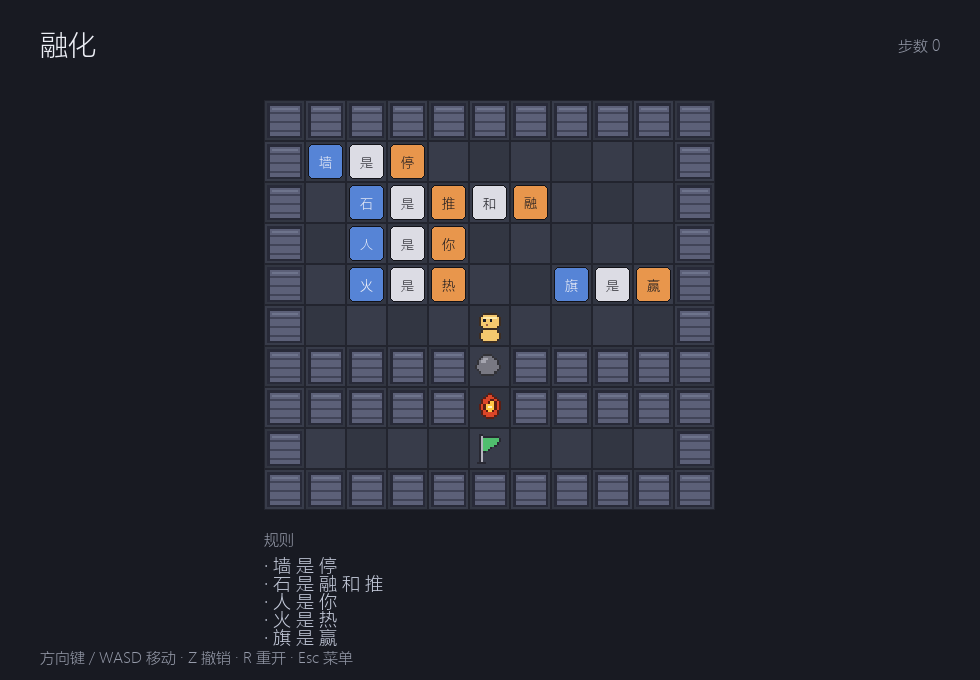
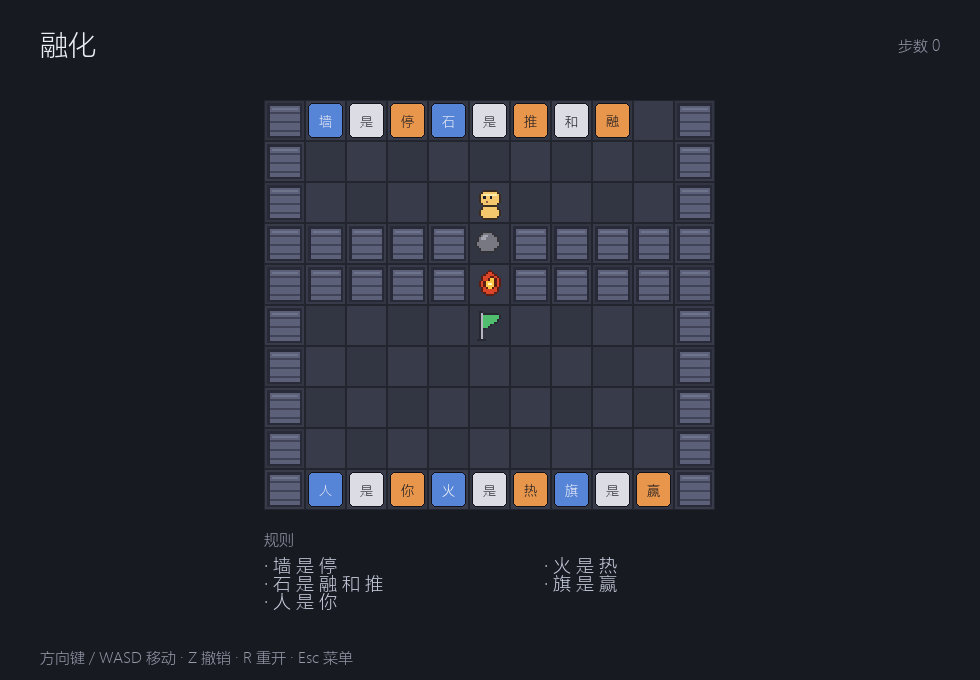
feat: 完成第 9-12 关与边界规则区

diff --git a/src/rulebox/ui/app.py b/src/rulebox/ui/app.py
@@ -668,11 +668,23 @@ def _draw_play(screen, app: _App, chrome) -> None:
     panel_y += 24
     if not rules:
         screen.blit(fonts["rule"].render("（没有生效的规则）", True, RULE_TEXT), (ox, panel_y))
-    for rule in rules[:5]:
-        screen.blit(fonts["rule"].render("· " + rule.display(), True, RULE_TEXT), (ox, panel_y))
-        panel_y += 18
-    if len(rules) > 5:
-        screen.blit(fonts["hint"].render("…", True, HINT), (ox, panel_y))
+    else:
+        visible = rules[:6]
+        if len(visible) <= 3:
+            columns = [(ox, visible)]
+        else:
+            split = (len(visible) + 1) // 2
+            columns = [(ox, visible[:split]), (ox + 280, visible[split:])]
+        for x, column in columns:
+            line_y = panel_y
+            for rule in column:
+                screen.blit(
+                    fonts["rule"].render("· " + rule.display(), True, RULE_TEXT),
+                    (x, line_y),
+                )
+                line_y += 18
+        if len(rules) > 6:
+            screen.blit(fonts["hint"].render("…", True, HINT), (ox, panel_y + 54))
 
     hint = "方向键 / WASD 移动 · Z 撤销 · R 重开 · Esc 菜单"
     screen.blit(fonts["hint"].render(hint, True, HINT), (MARGIN, HEIGHT - 34))
